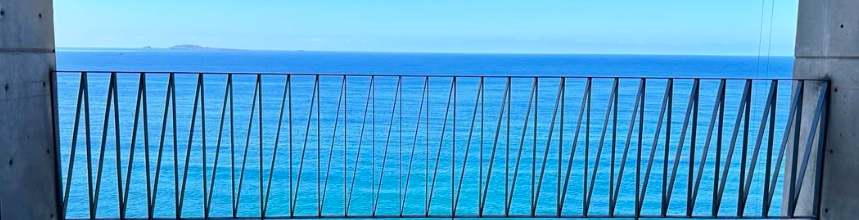
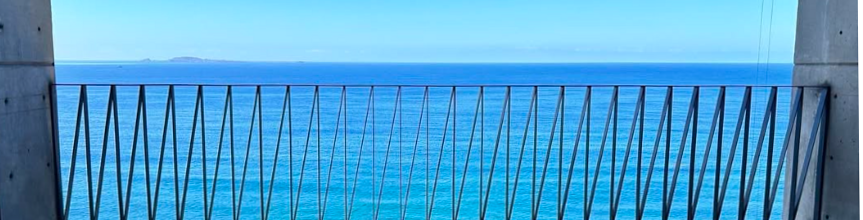
rotates crops el-mar

diff --git a/_posts/2025-06-29-viento171.html b/_posts/2025-06-29-viento171.html
@@ -18,8 +18,8 @@ tags:
 Ensenada, BC
 </p>
 
-<div id="outline-container-orgadbfdcb" class="outline-2">
-<h2 id="orgadbfdcb"><span class="section-number-2">1</span> Estudio amplio</h2>
+<div id="outline-container-org25a24bd" class="outline-2">
+<h2 id="org25a24bd"><span class="section-number-2">1</span> Estudio amplio en renta</h2>
 <div class="outline-text-2" id="text-1">
 <ul class="org-ul">
 <li>Duermen cuatro.</li>
@@ -33,7 +33,7 @@ Ensenada, BC
 </ul>
 
 
-<div id="org6420f0b" class="figure">
+<div id="org77b7bce" class="figure">
 <p><img src="../assets/img/fotos-viento/proy-tapanco1.jpeg" alt="proy-tapanco1.jpeg" />
 </p>
 <p><span class="figure-number">Figura 1: </span>Vista para entender el espacio a partir de un <i>render</i> (sin los espejos)</p>
@@ -177,7 +177,7 @@ Hay un extinguidor a un costado de la cafetera y otro encima del refrigerador.
 
 
 
-<table id="org77b7bce" border="2" cellspacing="0" cellpadding="6" rules="groups" frame="hsides">
+<table id="org95aefd2" border="2" cellspacing="0" cellpadding="6" rules="groups" frame="hsides">
 <caption class="t-above"><span class="table-number">Tabla 2</span> Vista del espacio a partir de un <i>render</i> (sin los espejos)</caption>
 
 <colgroup>
